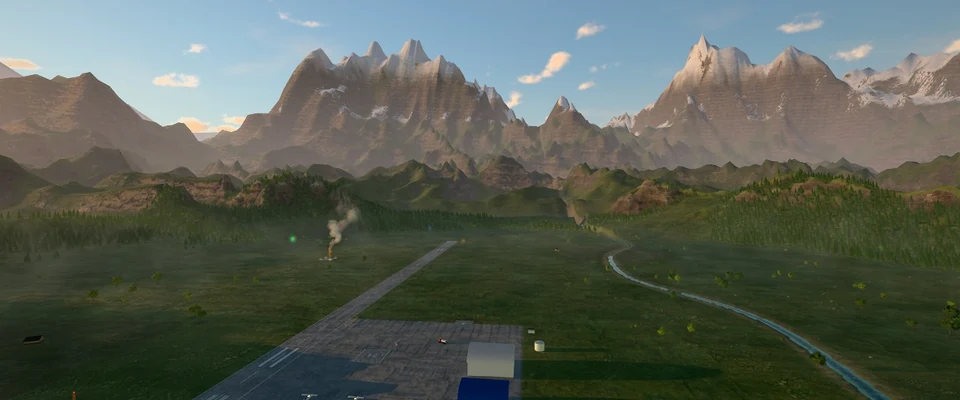
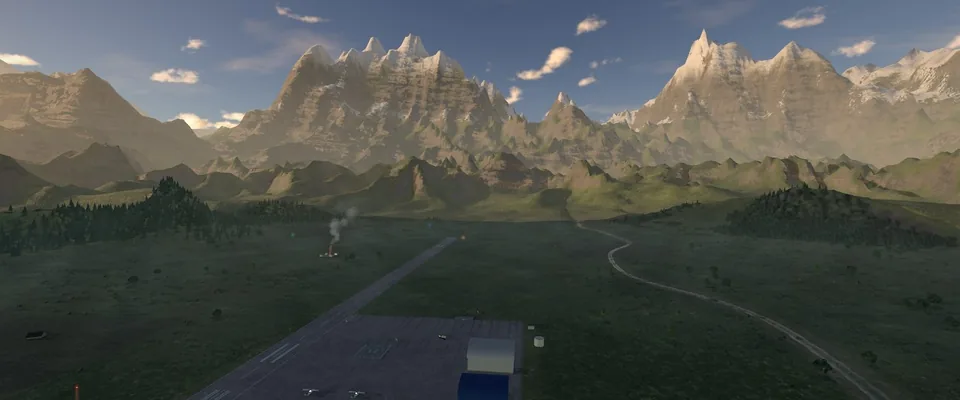
水纹：水面不再跟着镜头走，倒影改成稳定的多点模糊；菜单地图图片重拍

diff --git a/src/render/mirror.ts b/src/render/mirror.ts
@@ -193,14 +193,15 @@ export function screenMirror(nW: N<'vec3'>, foam: N<'float'>, depthNode: THREE.T
       });
     }
     const wFar = far.a.mul(live).mul(float(1).sub(k));
-    // spread：波浪把倒影上下拉开多少（屏幕比例）。几点采样 + 每像素抖动（逐帧变化），时间抗锯齿再把它抹平
+    // spread：波浪把倒影上下拉开多少（屏幕比例）。靠固定的多点采样模糊，逐帧抖动只留一点点：
+    // 全靠抖动的话，悬停时时间抗锯齿能抹平，高速飞行时抹不平，远处的海面是一层飞快乱窜的颗粒
     const fr = (sky.u.frame as unknown as N<'float'>).mul(5.588238);
-    const jit = interleavedGradientNoise(screenCoordinate.xy.add(fr)).sub(0.5).mul(0.66);
-    const jx = interleavedGradientNoise(screenCoordinate.yx.add(fr.mul(1.7)).add(23.0)).sub(0.5);
+    const jit = interleavedGradientNoise(screenCoordinate.xy.add(fr)).sub(0.5).mul(0.2);
+    const jx = interleavedGradientNoise(screenCoordinate.yx.add(fr.mul(1.7)).add(23.0)).sub(0.5).mul(0.3);
     const sp = spread.toVar();
-    const offs = [-0.66, 0, 0.66];
+    const offs = [-0.8, -0.4, 0, 0.4, 0.8];
     const tap = (uvq: N<'vec2'>, o: number) => vec2(uvq.x, clamp(uvq.y.add(jit.add(o).mul(sp)), 0.002, 0.998));
-    const seen = offs.map((o) => viewportSharedTexture(tap(huv, o)).rgb).reduce((a, b) => a.add(b)).mul(1 / 3);
+    const seen = offs.map((o) => viewportSharedTexture(tap(huv, o)).rgb).reduce((a, b) => a.add(b)).mul(1 / offs.length);
     // 云的倒影：左右也要散开一点，否则竖着抹开的云是一块块直边的方块
     const cloudTap = (uvq: N<'vec2'>, ox: number, oy: number) => vec2(clamp(uvq.x.add(jx.add(ox).mul(sp).mul(1.3)), 0.0, 1.0), clamp(uvq.y.add(jit.add(oy).mul(sp).mul(2.0)), 0.002, 0.998));
     // 天空：光线走到无穷远落在画面的哪里（云只有画面里才有）

diff --git a/src/render/water.ts b/src/render/water.ts
@@ -98,10 +98,12 @@ export class WaterView {
 
   constructor(map: MapDef, depthTex: THREE.Texture, reversedDepth: boolean, field: ReflectField | null, sky: SkyDome) {
     const level = map.waterLevel ?? 0;
-    // 水面一直铺到地平线（跟着相机走，波浪按世界坐标算，所以看不出移动）：
-    // 否则水面在地图外几公里就到头了，再往外是一条灰色的天空底边
-    const size = 64000;
-    const geo = new THREE.PlaneGeometry(size, size, 1, 1);
+    // 水面一直铺到地平线，否则在地图外几公里就到头了，再往外是一条灰色的天空底边。
+    // 网格不能跟着镜头走：那样它在画面里是不动的，运动向量全是 0，而波纹其实在高速后退。
+    // 时间抗锯齿按 0 去对齐上一帧，全错位，飞得越快，远处的细波和倒影的抖动窜得越快。镜头飞不出地图，铺大一点就够了
+    const size = 80000;
+    // （分成小格：一整块几十公里的面，像素的世界坐标是从几十公里外的顶点插值出来的，远处不够准）
+    const geo = new THREE.PlaneGeometry(size, size, 96, 96);
     geo.rotateX(-Math.PI / 2);
     const muddy = map.id === 'amazon' ? 1 : 0;
     const noise = getNoiseTexture();
@@ -260,9 +262,7 @@ export class WaterView {
     this.mesh.renderOrder = 1;
   }
 
-  update(t: number, windX: number, windZ: number, windSpeed: number, rain: number, cam: THREE.Vector3): void {
-    this.mesh.position.x = cam.x;
-    this.mesh.position.z = cam.z;
+  update(t: number, windX: number, windZ: number, windSpeed: number, rain: number): void {
     this.u.time.value = t;
     this.u.wind.value.set(windX, windZ);
     this.u.wave.value = Math.min(1, windSpeed / 14);

diff --git a/src/render/worldView.ts b/src/render/worldView.ts
@@ -863,7 +863,7 @@ export class WorldView {
       this.terrain?.update(cp);
       if (this.terrainUniforms) this.terrainUniforms.uWet.value = w.wetness;
       WET.value = w.wetness;
-      this.water?.update(f.t, _w.x, _w.z, Math.hypot(_w.x, _w.z), w.rain, cp);
+      this.water?.update(f.t, _w.x, _w.z, Math.hypot(_w.x, _w.z), w.rain);
       const windAt = s ? (p: THREE.Vector3, out: THREE.Vector3) => s.wind.sample(p.x, p.y, p.z, s.t, out) : (_p: THREE.Vector3, out: THREE.Vector3) => out.set(3, 0, 1);
       this.props?.update(f.t, cp, windAt);
       const gust = s ? Math.min(1, s.windInfo.gust / 8) : 0.2;

diff --git a/docs/progress.md b/docs/progress.md
@@ -17,6 +17,7 @@
 | L 水面、岩壁与夜晚 | 水面倒影三段（屏幕步进、地形倒影场、按方向算的天空与云）、Cox-Munk 太阳碎金、河面流线；真实悬崖法线放大的岩壁，贴图跟着地层面走；水系图（干河道、沟谷植被）；喜马拉雅云杉林；座舱加平板移动地图、音频面板、应答机、断路器、翘板开关、风挡内侧倒影；日本港区车道、停车场、集装箱堆场、候船楼；夜晚时段（星空、月光、仪表背光、着陆灯、灯火）；下洗吹动草和树梢；地图生成提速（日本 12 s → 3 s，结果校验和不变）；远处阴影隔帧更新 | 完成 |
 | M 飞行流畅度、地平线与夜晚 | 真实飞行逐帧计时找到并修掉每秒一次的卡顿（实例网格不再保留“上一帧矩阵”，树的列表只改变动的槽位）；雾取视线方向的地平线天色（一圈 7 个颜色），远云融进天色，远海高光封顶，海天之间不再有色带；任务烟幕改成受光、软边、镜头靠近时淡出的烟柱，夜里烟罐口有火光；云倒影左右散开；月光下暗处去饱和，舱内保留仪表灯颜色，月光不再照出光柱，山谷有散射光；雨林河岸改成自然的河漫滩；岩壁色调、瀑布分股；地图外接着铺树冠；渲染管线并行编译 + 生成世界时预先下载，加载时间减少约三分之一 | 完成 |
 | O 教学、休闲模式、光线追踪重做 | 飞行训练 7 课 26 步（课程表、只露出学到的按键和仪表、撞了回到这一课）；休闲飞行（景点、换时段天气、自动巡航、电影镜头）；光线追踪换成在地形高度图里追踪真实光线的全局光照和反射；日出日落的暮光带和树冠斜阳、影子碎边、瀑布顶端、训练场的山；每张图重新挑观景点 | 完成 |
+| S 水纹 | 水面网格不再跟着镜头走（运动向量是对的，时间抗锯齿才对得上）；倒影的模糊从“逐帧抖动 + 时间平均”改成固定五点采样，高速飞行时远处不再有乱窜的颗粒；水面网格分成小格，世界坐标更准 |
 | R 草地与风 | 草分三层：近圈细草（88 m）、中圈草团（到 480 m，离地 420 m 以内）、地形着色器里三个尺度的草簇（一两公里外还看得出来）；灌木加密；风场 `WIND` 由树、灌木、草、地形共用，阵风成团顺风走，矮的植物也摇，没风时轻轻晃，石头和仙人掌不动 |
 | Q 物理大气与水系 | 天空换成 Hillaire 2020 物理大气（查找表在 CPU 上算，阳光颜色、环境光、雾都从这里取）；色调映射换成 GT7（MIT 示例代码移植）；环境贴图下半球用脚下真实地表（实时 HDRI，飞出 500 米换一次）；接触阴影；阴影相机远平面 6000 → 30000 m（修掉高空和低太阳时远处地面整块变暗）；河流下切（stream power）让所有山地有树枝状水系；峡湾和喜马拉雅改成片麻岩的岩层；积雪在地形定下来之后才画；雨林支流有弯、日本有海湾、训练场谷地顺着河走；时间超分。调研见 `docs/visual-research.md` |
 | P 地图外的世界 | 高空四向巡检：树木细节分级改按三维距离，换级距离每棵错开（没有圆弧和楔形）；最远一级的树冠用细胞噪声做出枝叶团块；林子到地图边一片片稀下去，地形的树冠层和树同一套团块、同一套明暗；地表图不再被拉出地图（路和积雪的直线）；日本、峡湾的远景山地重做；峡湾尽头的平原接上通往内陆的河谷，陆地在网格到头之前沉进海里；远景网格外缘改成圆的；河流水面按两岸实际地面下调，水边透明过渡；水面倒影和山影都看得见地图外的山 |
